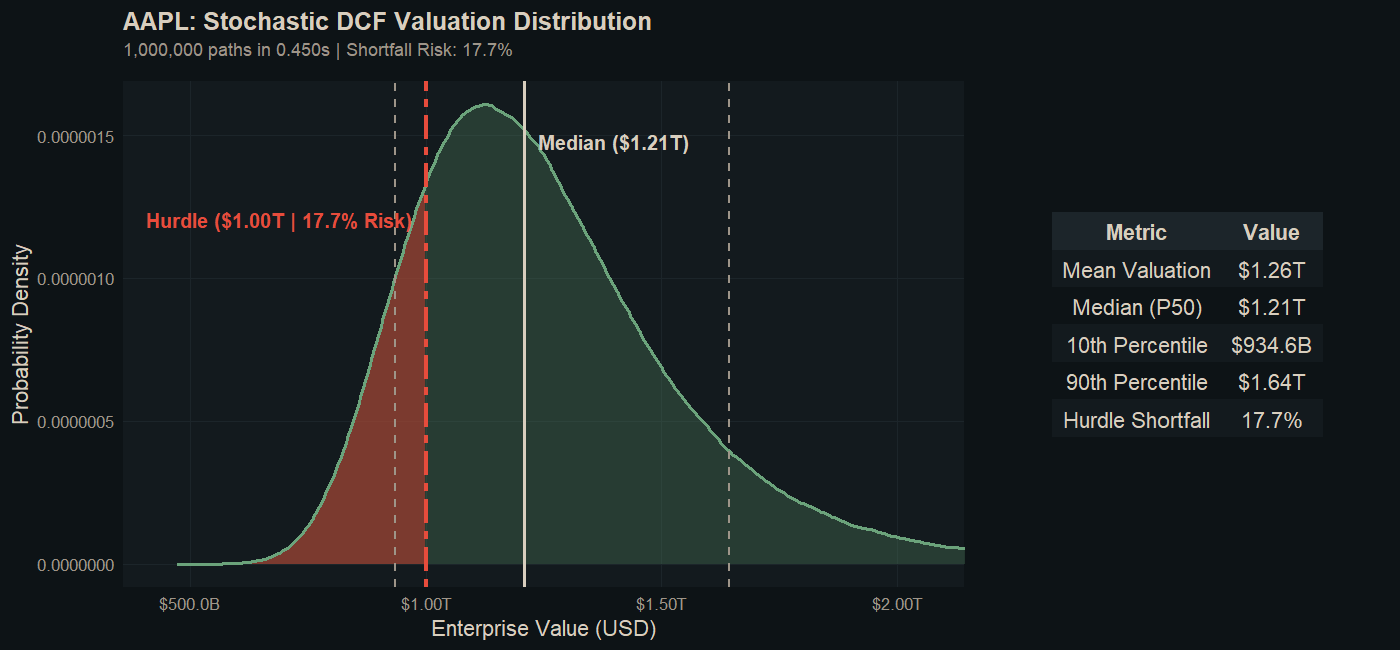
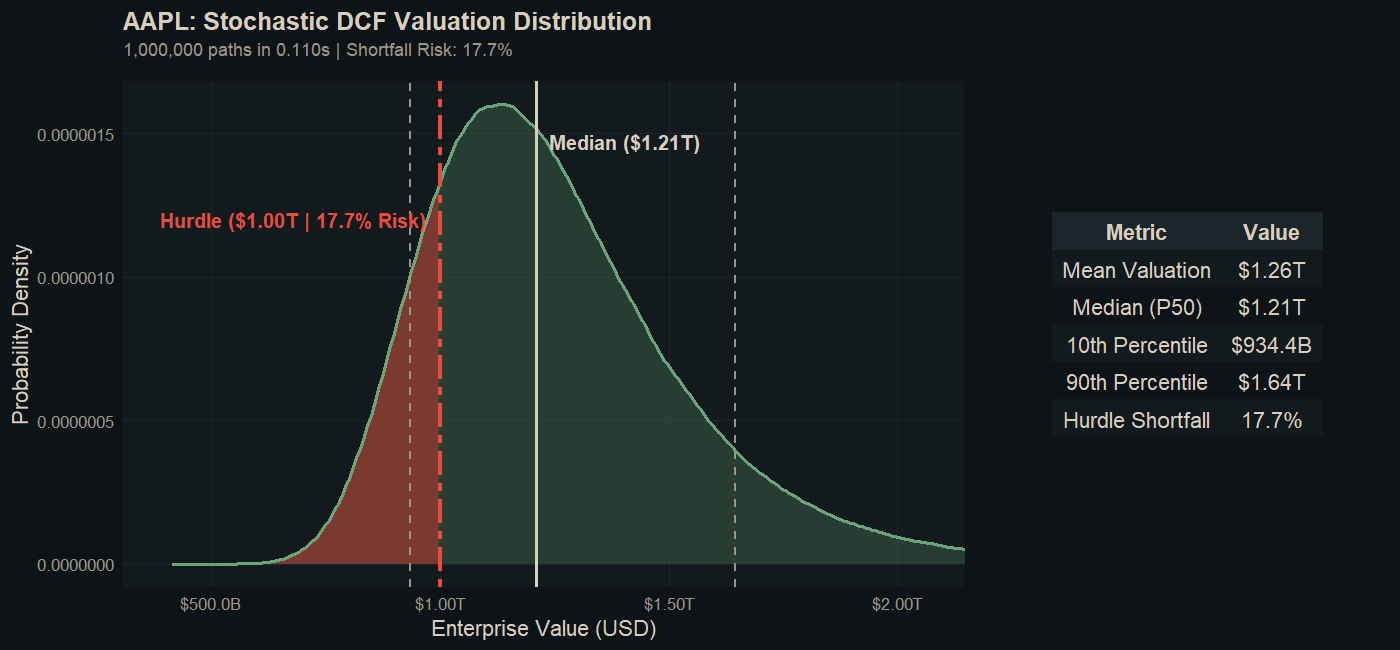
feat: implement POSIX multithreading (pthreads) in C kernel

diff --git a/src/dcf_kernel.c b/src/dcf_kernel.c
@@ -3,16 +3,12 @@
 #include <math.h>
 #include <stdlib.h>
 #include <stdint.h>
+#include <pthread.h>
 
 /* =============================================================================
- * 1. THREAD-SAFE PRNG: xoshiro256++ & SplitMix64 Seeder
+ * 1. THREAD-SAFE PRNG (xoshiro256++ & SplitMix64)
  * =============================================================================
- * Replaces standard C rand() to ensure:
- * - Thread-safety (each thread/run gets its own independent state struct)
- * - Platform-independent 64-bit precision (no RAND_MAX 32767 quantization)
- * - Extreme speed for Monte Carlo loops
  */
-
 typedef struct {
     uint64_t s[4];
     double cached_normal;
@@ -55,112 +51,134 @@ static void rng_init(rng_state_t *rng, uint64_t seed) {
     rng->cached_normal = 0.0;
 }
 
-/* =============================================================================
- * 2. OPTIMIZED BOX-MULLER TRANSFORM WITH SINE CACHING
- * =============================================================================
- * Box-Muller generates TWO independent standard normals (Z0, Z1) per pair of
- * uniform draws. Caching Z1 halves calls to log(), sqrt(), and trig functions.
- */
 static double rnorm_c(rng_state_t *rng) {
     if (rng->has_cache) {
         rng->has_cache = 0;
         return rng->cached_normal;
     }
-
-    // Convert 64-bit int to uniform double in (0, 1) using top 53 bits
     double u1 = ((xoshiro_next(rng) >> 11) + 0.5) * (1.0 / 9007199254740992.0);
     double u2 = ((xoshiro_next(rng) >> 11) + 0.5) * (1.0 / 9007199254740992.0);
-    
     double r = sqrt(-2.0 * log(u1));
     double theta = 2.0 * M_PI * u2;
-    
     rng->cached_normal = r * sin(theta);
     rng->has_cache = 1;
     return r * cos(theta);
 }
 
 /* =============================================================================
- * 3. EXPORTED C KERNEL: run_monte_carlo_dcf
+ * 2. PTHREAD WORKER CONFIGURATION
  * =============================================================================
  */
-SEXP run_monte_carlo_dcf(
-    SEXP r_n_sims,
-    SEXP r_proj_years,
-    SEXP r_base_revenue,
-    SEXP r_rev_growth_mean,
-    SEXP r_rev_growth_sd,
-    SEXP r_ebit_margin_mean,
-    SEXP r_ebit_margin_sd,
-    SEXP r_tax_rate,
-    SEXP r_wacc_mean,
-    SEXP r_wacc_sd,
-    SEXP r_term_growth
-) {
-    int n_sims           = INTEGER(r_n_sims)[0];
-    int proj_years       = INTEGER(r_proj_years)[0];
-    double base_rev      = REAL(r_base_revenue)[0];
-    double rev_mean      = REAL(r_rev_growth_mean)[0];
-    double rev_sd        = REAL(r_rev_growth_sd)[0];
-    double ebit_mean     = REAL(r_ebit_margin_mean)[0];
-    double ebit_sd       = REAL(r_ebit_margin_sd)[0];
-    double tax_rate      = REAL(r_tax_rate)[0];
-    double wacc_mean     = REAL(r_wacc_mean)[0];
-    double wacc_sd       = REAL(r_wacc_sd)[0];
-    double g             = REAL(r_term_growth)[0];
+typedef struct {
+    int start_idx;
+    int end_idx;
+    uint64_t seed;
+    int proj_years;
+    double base_rev;
+    double rev_mean;
+    double rev_sd;
+    double ebit_mean;
+    double ebit_sd;
+    double tax_rate;
+    double wacc_mean;
+    double wacc_sd;
+    double g;
+    double reinvest_rate;
+    double *out_ptr; // Shared memory array
+} thread_data_t;
 
-    /*
-     * FINANCE FIX [P0]: Reinvestment encoded as % of NOPAT (not Revenue).
-     * 20% of NOPAT is institutional standard for capital-light tech (AAPL/MSFT).
-     */
-    double reinvest_rate = 0.20;
-
-    SEXP r_out_val = PROTECT(allocVector(REALSXP, n_sims));
-    double *out_ptr = REAL(r_out_val);
-
-    // Initialize PRNG state (using fixed seed 42 for reproducible baseline audit)
+// The function each CPU core will run independently
+void *monte_carlo_worker(void *arg) {
+    thread_data_t *data = (thread_data_t *)arg;
+    
+    // Each thread gets its own isolated PRNG state
     rng_state_t rng;
-    rng_init(&rng, 42ULL);
+    rng_init(&rng, data->seed);
 
-    for (int i = 0; i < n_sims; i++) {
-        // Sample WACC (bounded to prevent zero-division near Gordon Growth floor)
-        double wacc = wacc_mean + (rnorm_c(&rng) * wacc_sd);
-        if (wacc <= g + 0.01) wacc = g + 0.01;
+    for (int i = data->start_idx; i < data->end_idx; i++) {
+        double wacc = data->wacc_mean + (rnorm_c(&rng) * data->wacc_sd);
+        if (wacc <= data->g + 0.01) wacc = data->g + 0.01;
 
-        double current_rev = base_rev;
+        double current_rev = data->base_rev;
         double pv_sum = 0.0;
         double fcff = 0.0;
 
-        for (int year = 1; year <= proj_years; year++) {
-            double rev_growth = rev_mean + (rnorm_c(&rng) * rev_sd);
+        for (int year = 1; year <= data->proj_years; year++) {
+            double rev_growth = data->rev_mean + (rnorm_c(&rng) * data->rev_sd);
             current_rev *= (1.0 + rev_growth);
 
-            double ebit_margin = ebit_mean + (rnorm_c(&rng) * ebit_sd);
+            double ebit_margin = data->ebit_mean + (rnorm_c(&rng) * data->ebit_sd);
             double ebit = current_rev * ebit_margin;
-            double nopat = ebit * (1.0 - tax_rate);
+            double nopat = ebit * (1.0 - data->tax_rate);
             
-            // Reinvestment as a proportion of NOPAT
-            double reinvestment = nopat * reinvest_rate;
+            double reinvestment = nopat * data->reinvest_rate;
             fcff = nopat - reinvestment;
 
             double df = pow(1.0 + wacc, year);
             pv_sum += (fcff / df);
         }
 
-        /*
-         * FINANCE FIX [P2]: Normalized Terminal Value.
-         * Instead of capitalizing a single noisy Year-5 draw into perpetuity,
-         * we apply expected (mean) margin to Year-5 revenue to prevent tail distortion.
-         */
-        double norm_ebit  = current_rev * ebit_mean;
-        double norm_nopat = norm_ebit * (1.0 - tax_rate);
-        double norm_fcff  = norm_nopat * (1.0 - reinvest_rate);
+        double norm_ebit  = current_rev * data->ebit_mean;
+        double norm_nopat = norm_ebit * (1.0 - data->tax_rate);
+        double norm_fcff  = norm_nopat * (1.0 - data->reinvest_rate);
 
-        double term_val = (norm_fcff * (1.0 + g)) / (wacc - g);
-        double pv_term  = term_val / pow(1.0 + wacc, (double)proj_years);
+        double term_val = (norm_fcff * (1.0 + data->g)) / (wacc - data->g);
+        double pv_term  = term_val / pow(1.0 + wacc, (double)data->proj_years);
 
-        out_ptr[i] = pv_sum + pv_term;
+        // Lock-free write to the shared array because indices never overlap
+        data->out_ptr[i] = pv_sum + pv_term;
+    }
+    return NULL;
+}
+
+/* =============================================================================
+ * 3. EXPORTED C KERNEL (THE DISPATCHER)
+ * =============================================================================
+ */
+SEXP run_monte_carlo_dcf(
+    SEXP r_n_sims, SEXP r_proj_years, SEXP r_base_revenue, SEXP r_rev_growth_mean,
+    SEXP r_rev_growth_sd, SEXP r_ebit_margin_mean, SEXP r_ebit_margin_sd,
+    SEXP r_tax_rate, SEXP r_wacc_mean, SEXP r_wacc_sd, SEXP r_term_growth
+) {
+    int n_sims = INTEGER(r_n_sims)[0];
+    
+    // Allocate memory in R's heap BEFORE spawning threads (critical for safety)
+    SEXP r_out_val = PROTECT(allocVector(REALSXP, n_sims));
+    double *out_ptr = REAL(r_out_val);
+
+    int NUM_THREADS = 12;
+    pthread_t threads[NUM_THREADS];
+    thread_data_t t_data[NUM_THREADS];
+
+    int chunk_size = n_sims / NUM_THREADS;
+
+    // Dispatch workers
+    for (int t = 0; t < NUM_THREADS; t++) {
+        t_data[t].start_idx = t * chunk_size;
+        t_data[t].end_idx = (t == NUM_THREADS - 1) ? n_sims : (t + 1) * chunk_size;
+        t_data[t].seed = 42ULL + t; // Seed stagger ensures true independence
+        
+        t_data[t].proj_years = INTEGER(r_proj_years)[0];
+        t_data[t].base_rev = REAL(r_base_revenue)[0];
+        t_data[t].rev_mean = REAL(r_rev_growth_mean)[0];
+        t_data[t].rev_sd = REAL(r_rev_growth_sd)[0];
+        t_data[t].ebit_mean = REAL(r_ebit_margin_mean)[0];
+        t_data[t].ebit_sd = REAL(r_ebit_margin_sd)[0];
+        t_data[t].tax_rate = REAL(r_tax_rate)[0];
+        t_data[t].wacc_mean = REAL(r_wacc_mean)[0];
+        t_data[t].wacc_sd = REAL(r_wacc_sd)[0];
+        t_data[t].g = REAL(r_term_growth)[0];
+        t_data[t].reinvest_rate = 0.20;
+        t_data[t].out_ptr = out_ptr;
+
+        pthread_create(&threads[t], NULL, monte_carlo_worker, &t_data[t]);
+    }
+
+    // Wait for all 12 threads to cross the finish line
+    for (int t = 0; t < NUM_THREADS; t++) {
+        pthread_join(threads[t], NULL);
     }
 
     UNPROTECT(1);
     return r_out_val;
-}   
+}
